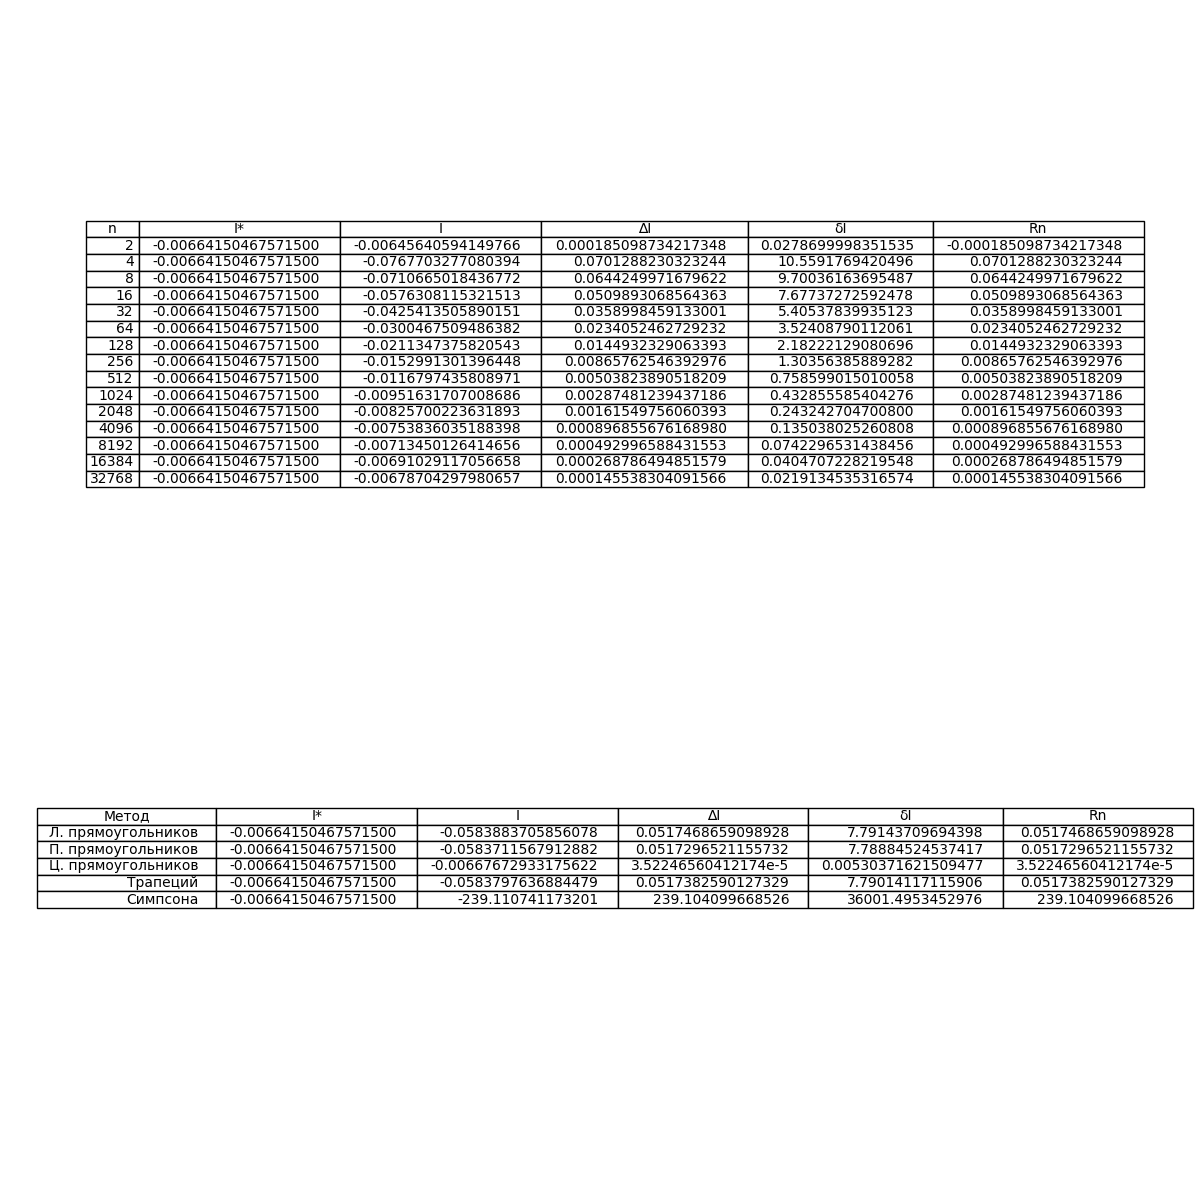
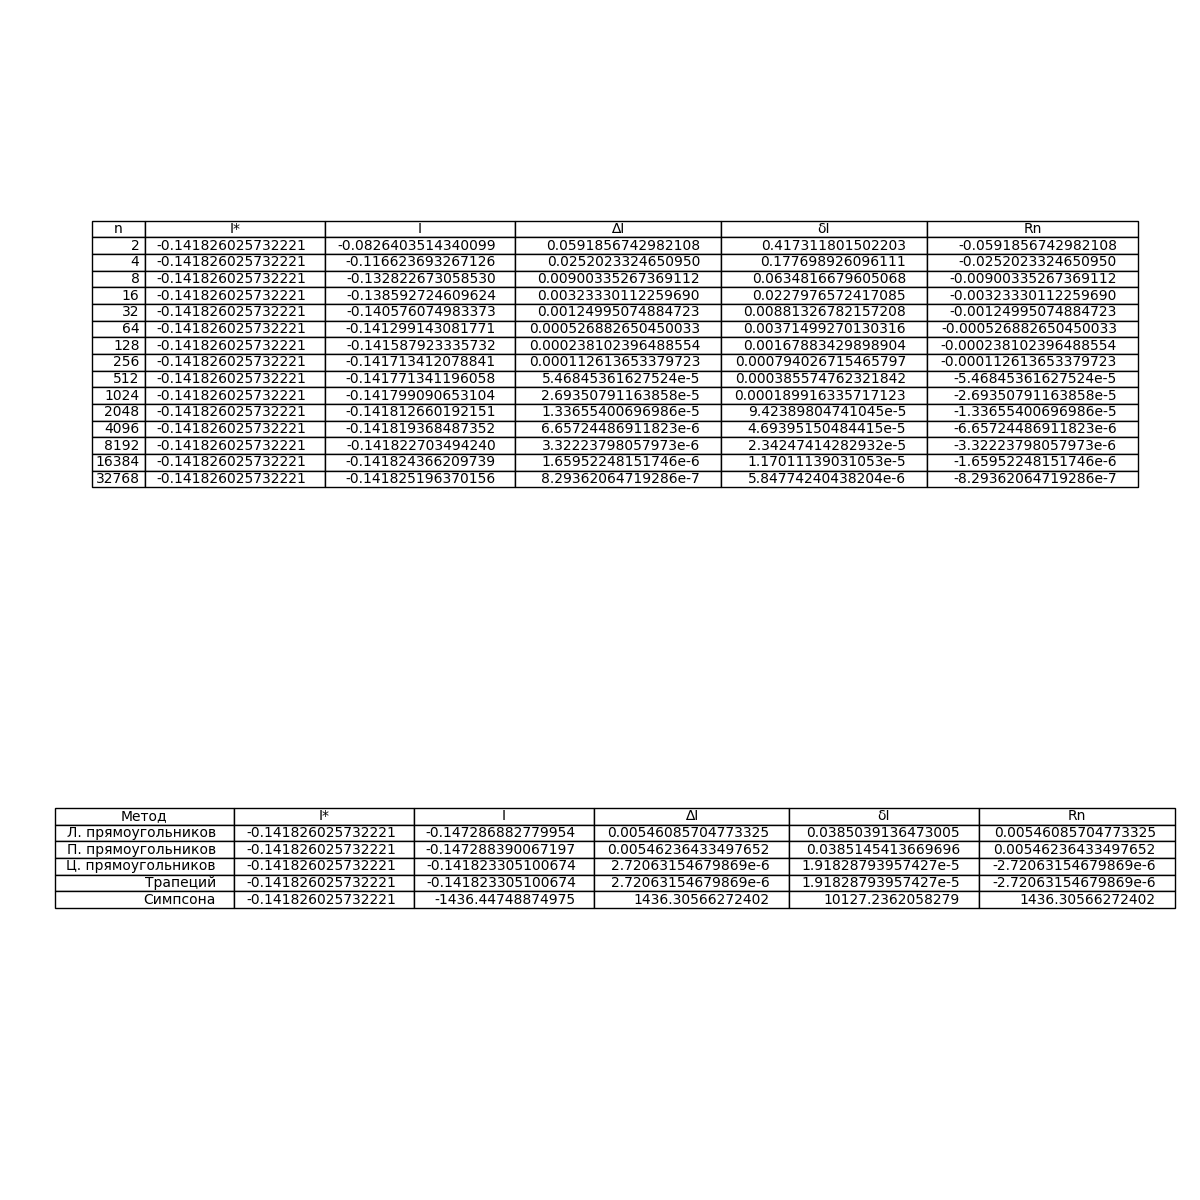
fix lip

Changed region(s): [[0.0617, 0.185, 0.9558, 0.4008], [0.0308, 0.6783, 1.0, 0.7708]]

diff --git a/stuff/LIP.py b/stuff/LIP.py
@@ -2,7 +2,7 @@ import math
 
 import numpy as np
 from sympy import Symbol, Float, expand, log, diff, factorial
-
+from sympy.core import add
 from stuff.BaseFunctionHandler import BaseFunctionHandler
 
 
@@ -15,8 +15,8 @@ class LIP(BaseFunctionHandler):
     def __str__(self):
         return str(self.__polynom)
 
-    def __init__(self, n: int, begin_interval: float, end_interval: float):
-        super().__init__(n, begin_interval, end_interval)
+    def __init__(self, n: int, begin_interval: float, end_interval: float, function: add):
+        super().__init__(n, begin_interval, end_interval, function)
         self.__calculate_polynom()
         print(self._n)
 
@@ -28,7 +28,8 @@ class LIP(BaseFunctionHandler):
 
     def __calculate_polynom(self):
         for i in range(self._n):
-            ptr_term = Float(self._nodes[i] ** 2) + Float(math.log(self._nodes[i]))
+            x = Symbol('x')
+            ptr_term = self._function.subs(x, self._nodes[i])
             for j in range(self._n):
                 x = Symbol('x')
                 if j != i:
@@ -40,7 +41,7 @@ class LIP(BaseFunctionHandler):
 
     def calculate_absolute_error(self):
         x = Symbol('x')
-        function_for_calculating = self.__polynom - x ** 2 - log(x)
+        function_for_calculating = self.__polynom - self._function
         absolute_error = 0
         for value in self._nodes:
             ptr_value = abs(function_for_calculating.subs(x, value))
@@ -51,10 +52,9 @@ class LIP(BaseFunctionHandler):
     def calculate_relative_error(self):
         x = Symbol('x')
         absolute_error = self.calculate_absolute_error()
-        function = x ** 2 + log(x)
         norm_of_function = 0
         for value in self._nodes:
-            ptr_value = abs(function.subs(x, value))
+            ptr_value = abs(self._function.subs(x, value))
             if ptr_value > norm_of_function:
                 norm_of_function = ptr_value
         relative_error = absolute_error / norm_of_function
@@ -63,8 +63,7 @@ class LIP(BaseFunctionHandler):
     def compute_the_remainder_estimate(self):
         x = Symbol('x')
 
-        function_for_norm = (x ** 2 + log(x))
-        differencial_of_function = diff(function_for_norm, x, self._n + 1)
+        differencial_of_function = diff(self._function, x, self._n + 1)
         norm_of_function = 0
 
         for value in self._nodes:
@@ -77,9 +76,10 @@ class LIP(BaseFunctionHandler):
 
     def compute_the_remainder_estimate_way_two(self):
         x = Symbol('x')
-        function_for_norm = (x ** 2 + log(x))
-        differencial_of_function = diff(function_for_norm, x, self._n + 1)
+
+        differencial_of_function = diff(self._function, x, self._n + 1)
         self.__remainder_estimate = differencial_of_function / factorial(self._n + 1)
+
         for value in self._values_of_function:
             self.__remainder_estimate = self.__remainder_estimate * (x - value)
         self.__remainder_estimate = expand(self.__remainder_estimate)

diff --git a/laboratory_tasks/second_lab_part_two.py b/laboratory_tasks/second_lab_part_two.py
@@ -1,17 +1,17 @@
 from stuff.LIP import LIP
-from sympy import Symbol, log, factorial, expand, diff
+from sympy import Symbol, log, factorial, expand, diff, ln
 
 
 def execute_second_lab_part_two():
     x = Symbol('x')
 
-    main_polynom = LIP(20, 0.4, 0.9)
+    main_polynom = LIP(20, 0.4, 0.9, ln(x) + x**2 - 4)
     print(main_polynom)
     main_polynom.compute_the_remainder_estimate_way_two()
     main_polynom_differencial = diff(main_polynom.get_polynom(), x, 1)
     print(main_polynom_differencial)
 
-    main_function_differencial = diff(log(x)+x**2, x, 1)
+    main_function_differencial = diff(log(x)+x**2-4, x, 1)
 
     main_function_differencial_in_point = main_function_differencial.subs(x, 0.72)
     main_polynom_differencial_in_point = main_polynom_differencial.subs(x, 0.72)

diff --git a/main.py b/main.py
@@ -1,7 +1,7 @@
 from laboratory_tasks.first_lab import execute_first_lab
 from laboratory_tasks.second_lab_part_two import execute_second_lab_part_two
 from laboratory_tasks.third_lab import execute_third_lab
-from sympy import Symbol, ln
+from sympy import Symbol, ln, log, sin
 
 x = Symbol('x')
-execute_third_lab(x**2+ln(x))
+execute_second_lab_part_two()

diff --git a/laboratory_tasks/first_lab.py b/laboratory_tasks/first_lab.py
@@ -14,6 +14,7 @@ def execute_first_lab():
     remainder_estimate_values = []
 
     main_polynom = LIP(3, 0.4, 0.9)
+
     n_values.append(3)
     absolute_error_values.append(main_polynom.calculate_absolute_error())
     relative_error_values.append(main_polynom.calculate_relative_error())

diff --git a/laboratory_tasks/third_lab.py b/laboratory_tasks/third_lab.py
@@ -7,7 +7,7 @@ import matplotlib.pyplot as plt
 def execute_third_lab(function):
 
     x = Symbol('x')
-    t = TrapezoidalMethod(2, 0.4, 0.9, function)
+    t = MidBoxMethod(2, 0.4, 0.9, function)
 
     colldata1 = []
     colldata2 = []
